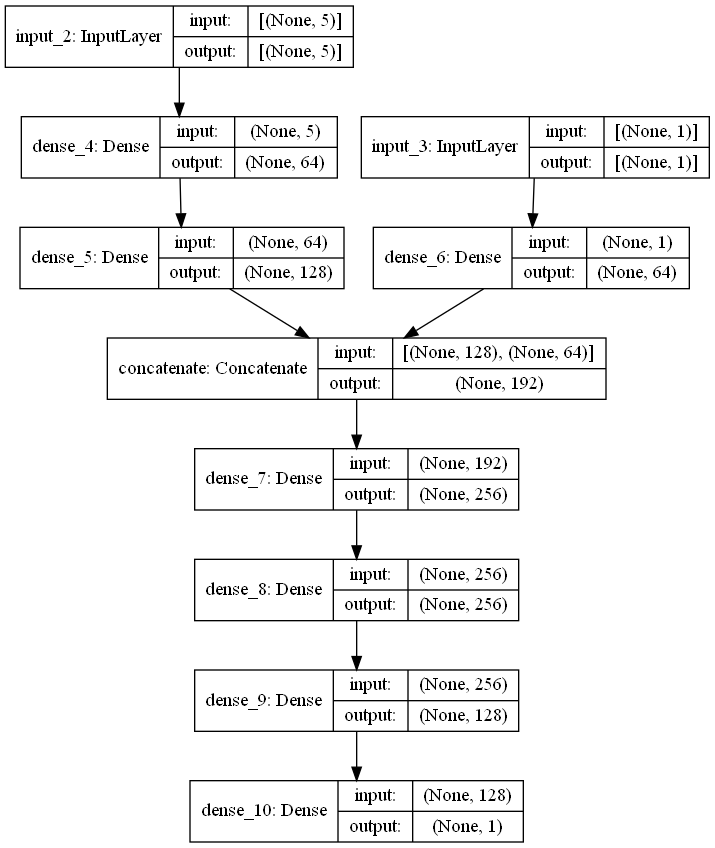
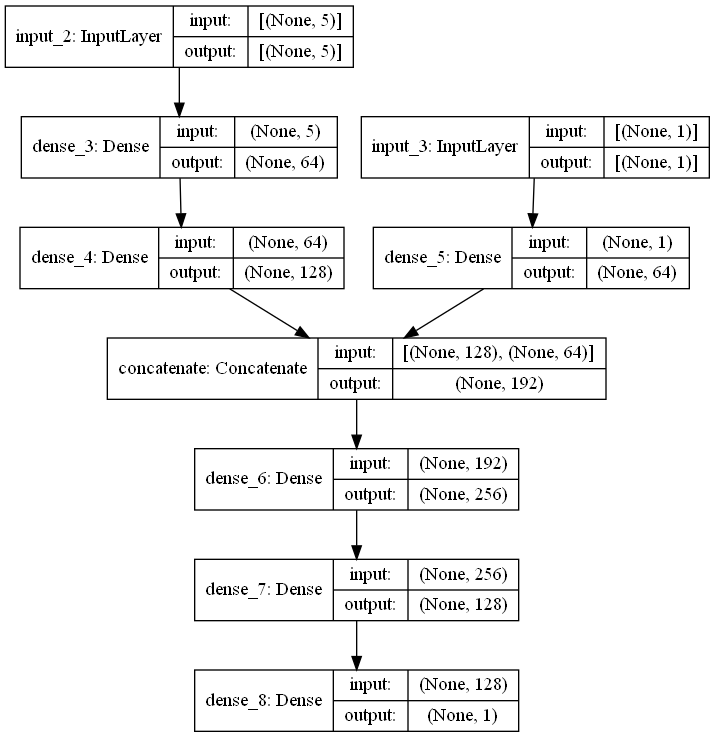
Updating for two wheel

Changed region(s): [[0.0308, 0.1248, 1.0, 0.9986], [0.0, 0.0, 0.4923, 0.0936]]

diff --git a/main.py b/main.py
@@ -131,9 +131,8 @@ def get_actor():
     last_init = tf.random_uniform_initializer(minval=-0.03, maxval=0.03)
 
     inputs = layers.Input(shape=(NUM_STATES,))
-    out = layers.Dense(128, activation="relu")(inputs)
+    out = layers.Dense(256, activation="relu")(inputs)
     out = layers.Dense(256, activation="relu")(out)
-    out = layers.Dense(128, activation="relu")(out)
     outputs = layers.Dense(1, activation="tanh", kernel_initializer=last_init)(out)
 
     outputs = outputs * UPPER_BOUND
@@ -157,7 +156,6 @@ def get_critic():
     concat = layers.Concatenate()([state_out, action_out])
 
     out = layers.Dense(256, activation="relu")(concat)
-    out = layers.Dense(256 , activation="relu")(out)
     out = layers.Dense(128 , activation="relu")(out)
     outputs = layers.Dense(1, activation="softmax")(out)
 
